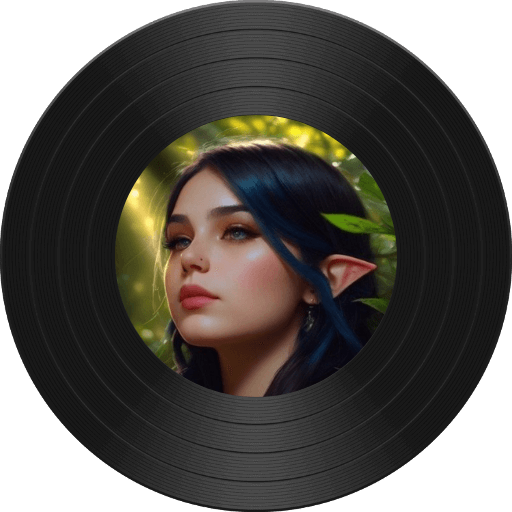
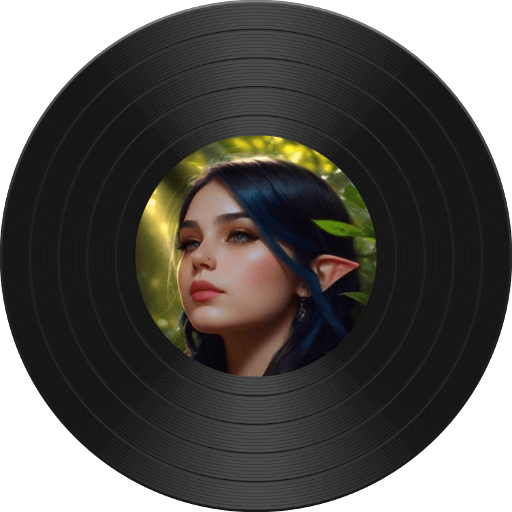
record v3 + fixed not turning on axis

Changed region(s): [[0.2188, 0.2188, 0.7812, 0.7812]]

diff --git a/style.css b/style.css
@@ -147,12 +147,12 @@ z-index: -1;
 
 /*Change Song*/
 
-#record-container{
+.record-container{
   position: fixed;
   z-index: 200;
   bottom: 15px;
   right: 15px;
-  width: 160px;
+  width: 125px;
 
   @media(max-width: 980px){
   width: 20vw;
@@ -160,10 +160,10 @@ z-index: -1;
 
 }
 
-#record-container p{
+.record-container p{
   text-align: center;
   font-size: 20px;
-  margin-bottom: 2px;
+  /* margin-bottom: 2px; */
 }
 
 @keyframes recordRotate{
@@ -171,11 +171,11 @@ z-index: -1;
   to { transform: rotate(360deg); }
 }
 
-#record-container:hover{
+.record-container:hover{
   cursor: pointer;
 }
 
-#record-container img{
+.record-container img{
   height: 100%;
   width: 100%;
 }

diff --git a/index.html b/index.html
@@ -31,10 +31,10 @@
     <div class="parallax-background" aria-hidden="true"></div>
 
     <!--Change Song Record-->
-    <div id="record-container">
+    <div class="record-container">
         <p class="animate-bounce click-prompt">Click Me <br>👇</p>
 
-        <img src="images/Record.png" alt="Record Disk">
+        <img id="record" src="images/Record.png" alt="Record Disk">
     </div>
 
     <div class="top-message flex">

diff --git a/script.js b/script.js
@@ -38,7 +38,7 @@ for (let heading of headings) {
 const audio = document.createElement('audio');
 audio.src = 'music/All The Time Go.mp3'; 
 
-const record = document.getElementById('record-container');
+const record = document.getElementById('record');
 const clickPrompt = document.querySelector('.click-prompt');
 let isPlaying = false;
 
